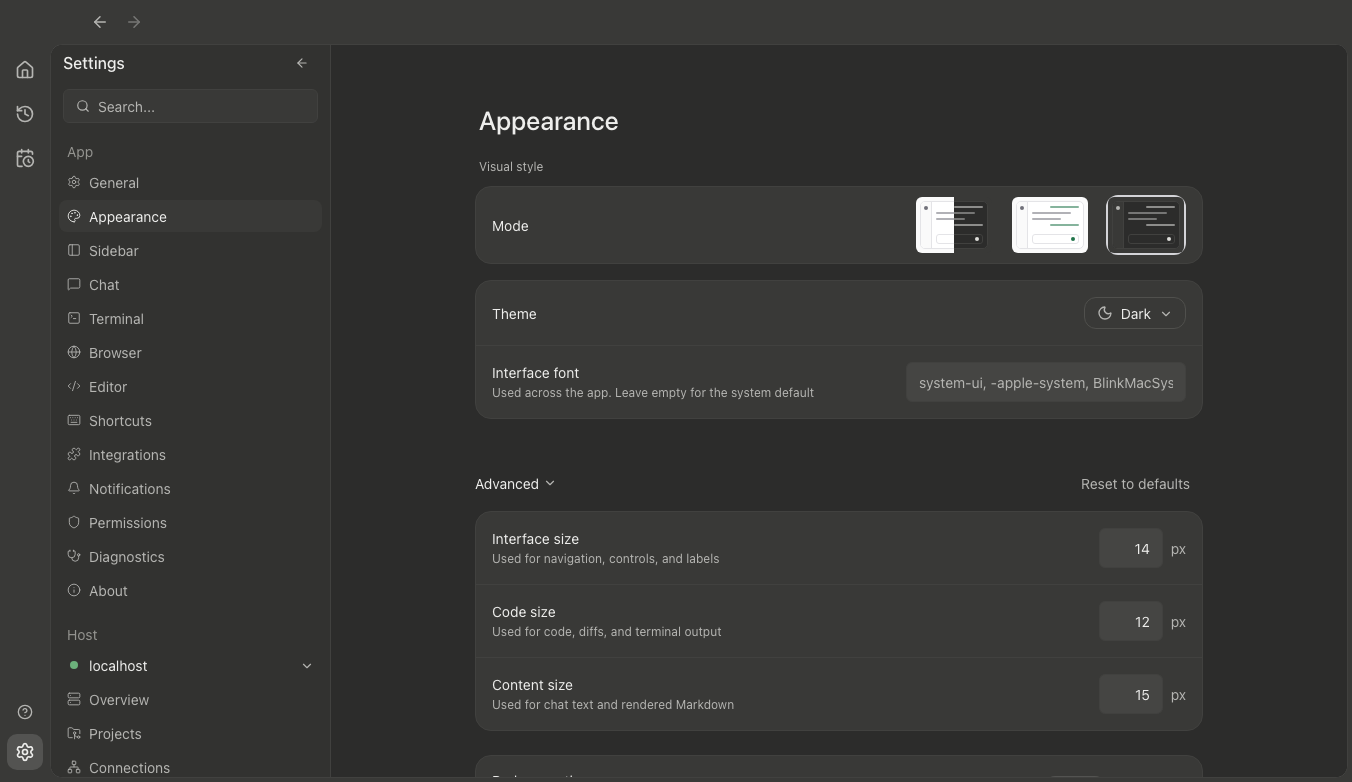
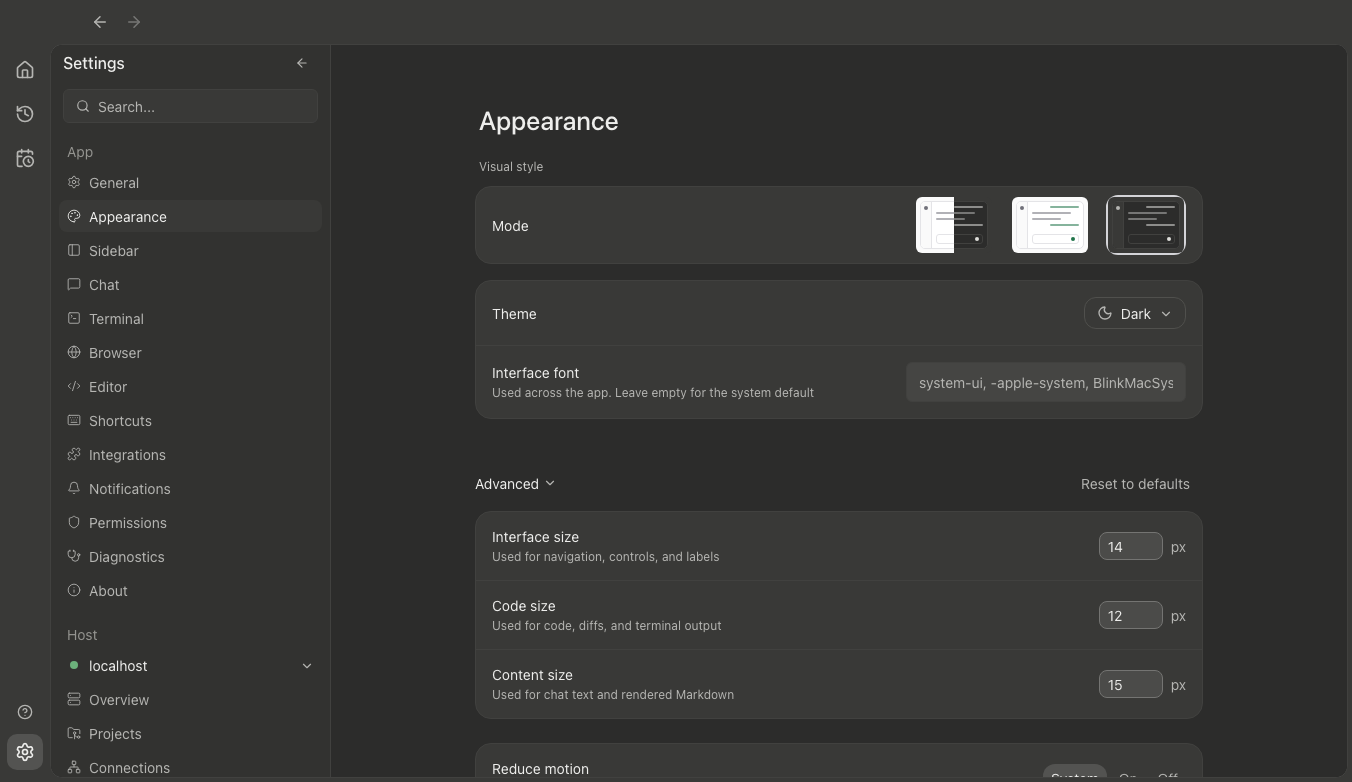
style(desktop): align appearance size input geometry

diff --git a/packages/desktop/e2e/appearance-advanced-reference.spec.ts b/packages/desktop/e2e/appearance-advanced-reference.spec.ts
@@ -68,6 +68,15 @@ test("macOS Advanced resets only its fields and refreshes dirty controls", async
     monoFontFamily: page.getByRole("textbox", { name: "Code font family", exact: true }),
     contentMaxWidth: page.getByRole("textbox", { name: "Content width in pixels", exact: true }),
   };
+  // Claude keeps its semantic palette; only the default macOS dark preset uses reference colors.
+  const semanticColors = await fields.contentMaxWidth.evaluate((node) => {
+    const css = getComputedStyle(node);
+    return { border: css.borderColor, background: css.backgroundColor };
+  });
+  for (const field of [fields.uiBaseFontSize, fields.codeFontSize, fields.contentFontSize]) {
+    await expect(field).toHaveCSS("border-color", semanticColors.border);
+    await expect(field).toHaveCSS("background-color", semanticColors.background);
+  }
   const keys = [...Object.keys(fields), "syntaxTheme", "reducedMotion"];
   const readSettings = () =>
     page.evaluate(
@@ -211,6 +220,34 @@ test("macOS Advanced resets only its fields and refreshes dirty controls", async
   await expect.poll(() => beforeTheme.evaluate((node) => node.isConnected)).toBe(false);
   await beforeTheme.dispose();
   await expect(page.getByLabel("Theme: Dark", { exact: true })).toBeVisible();
+  const sizeControls = [fields.uiBaseFontSize, fields.codeFontSize, fields.contentFontSize];
+  const readSizeControls = () =>
+    Promise.all(
+      sizeControls.map((field) =>
+        field.evaluate((node) => {
+          const css = getComputedStyle(node);
+          const rect = node.getBoundingClientRect();
+          return {
+            width: rect.width,
+            height: rect.height,
+            align: css.textAlign,
+            radius: css.borderRadius,
+            border: css.borderColor,
+            background: css.backgroundColor,
+          };
+        }),
+      ),
+    );
+  expect(await readSizeControls()).toEqual(
+    Array(3).fill({
+      width: 64,
+      height: 28,
+      align: "left",
+      radius: "8px",
+      border: "rgb(116, 116, 114)",
+      background: "rgb(75, 75, 73)",
+    }),
+  );
   await expect(
     page.getByTestId("settings-sidebar").getByText("localhost", { exact: true }),
   ).toBeVisible();
@@ -228,4 +265,21 @@ test("macOS Advanced resets only its fields and refreshes dirty controls", async
   await expect
     .poll(() => page.evaluate(() => document.documentElement.scrollWidth - innerWidth))
     .toBe(0);
+  const beforeLargeType = await fields.uiBaseFontSize.elementHandle();
+  if (!beforeLargeType) throw new Error("Missing UI size input before large-type check");
+  await fields.uiBaseFontSize.fill("21");
+  await fields.uiBaseFontSize.press("Tab");
+  await expect.poll(() => beforeLargeType.evaluate((node) => node.isConnected)).toBe(false);
+  await beforeLargeType.dispose();
+  for (const field of sizeControls) {
+    await expect(field).toHaveCSS("min-height", "28px");
+    await expect(field).toHaveCSS("font-size", "21px");
+    const geometry = await field.evaluate((node) => ({
+      height: node.getBoundingClientRect().height,
+      scroll: node.scrollHeight,
+      client: node.clientHeight,
+    }));
+    expect(geometry.height).toBeGreaterThan(28);
+    expect(geometry.scroll).toBeLessThanOrEqual(geometry.client);
+  }
 });

diff --git a/packages/app/src/screens/settings/appearance/appearance-section.tsx b/packages/app/src/screens/settings/appearance/appearance-section.tsx
@@ -26,6 +26,7 @@ import { DropdownTrigger } from "@/components/ui/dropdown-trigger";
 import { SettingsSection } from "@/components/settings/headings/settings-section";
 import { useContributedThemes } from "@/appearance/provider";
 import { Button } from "@/components/ui/button";
+import { CONTROL_HEIGHTS } from "@/components/ui/control-geometry";
 import { SegmentedControl } from "@/components/ui/segmented-control";
 import {
   EditingTextInput as TextInput,
@@ -1073,7 +1074,7 @@ export function AppearanceSection() {
   );
 }
 
-const styles = StyleSheet.create((theme) => ({
+const styles = StyleSheet.create((theme, rt) => ({
   advancedGroup: { marginTop: theme.spacing[6] },
   advancedHeader: {
     flexDirection: "row",
@@ -1201,16 +1202,17 @@ const styles = StyleSheet.create((theme) => ({
   },
   sizeInput: {
     width: 64,
-    minHeight: APPEARANCE_INPUT_HEIGHT,
-    paddingVertical: theme.spacing[2],
-    paddingHorizontal: theme.spacing[3],
-    borderRadius: theme.borderRadius.md,
+    minHeight: getIsElectronMac() ? CONTROL_HEIGHTS.tight : APPEARANCE_INPUT_HEIGHT,
+    paddingVertical: getIsElectronMac() ? theme.spacing[1] : theme.spacing[2],
+    paddingHorizontal: getIsElectronMac() ? theme.spacing[2] : theme.spacing[3],
+    borderRadius: getIsElectronMac() ? theme.borderRadius.lg : theme.borderRadius.md,
     borderWidth: theme.borderWidth[1],
-    borderColor: theme.colors.border,
-    backgroundColor: theme.colors.surface2,
+    borderColor: getIsElectronMac() && rt.themeName === "dark" ? "#747472" : theme.colors.border,
+    backgroundColor:
+      getIsElectronMac() && rt.themeName === "dark" ? "#4b4b49" : theme.colors.surface2,
     color: theme.colors.foreground,
     fontSize: theme.fontSize.base,
-    textAlign: "right",
+    textAlign: getIsElectronMac() ? "left" : "right",
   },
   widthInput: {
     width: 80,
